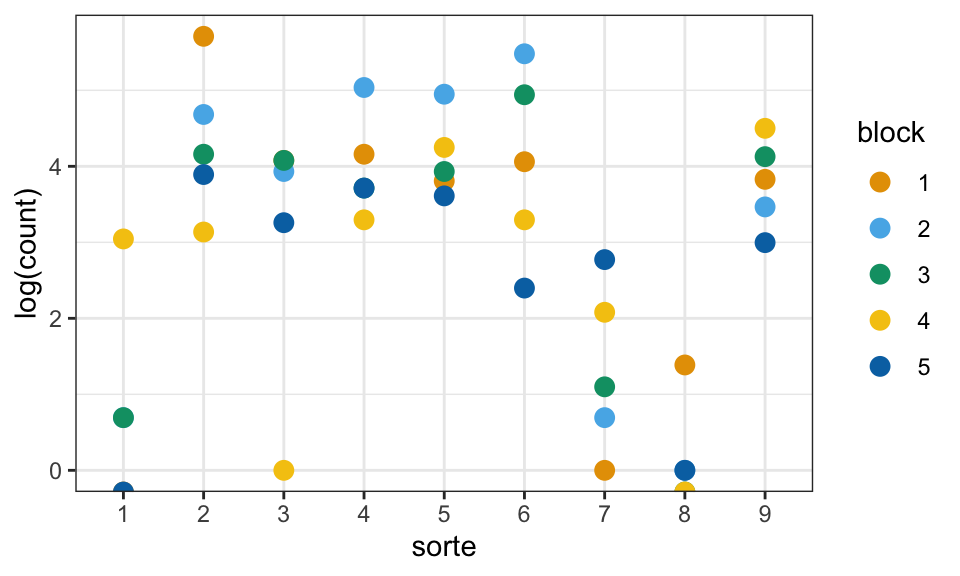
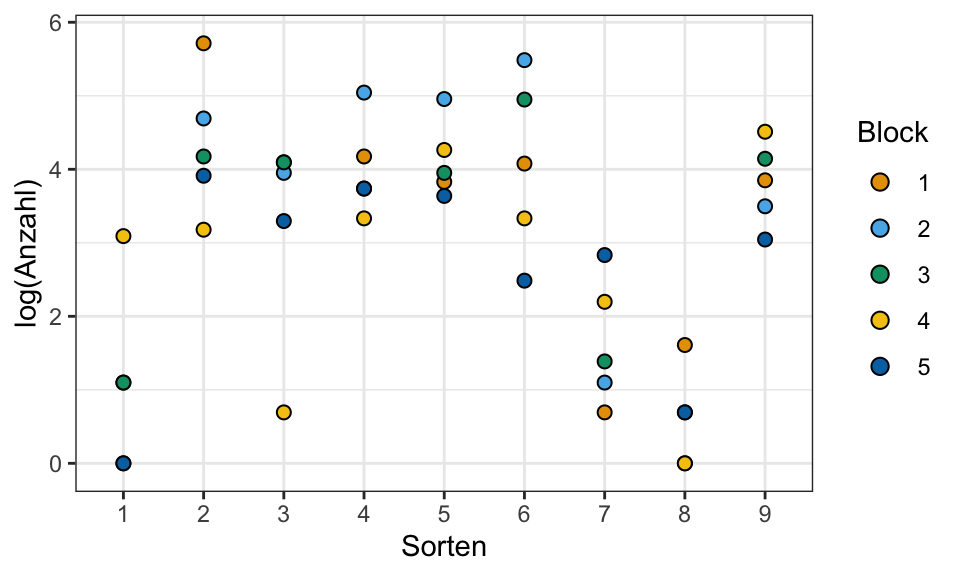
added text

diff --git a/docs/stat-tests-effect.html b/docs/stat-tests-effect.html
@@ -675,7 +675,7 @@ div.csl-indent {
   </div>
   
 
-</header><p><em>Version vom June 16, 2023 um 09:56:54</em></p>
+</header><p><em>Version vom June 16, 2023 um 11:32:09</em></p>
 <blockquote class="blockquote">
 <p><em>“Alles, was wir hören, ist eine Meinung, keine Tatsache. Alles, was wir sehen, ist eine Perspektive, nicht die Wahrheit.” — Marcus Aurelius, Meditationen</em></p>
 </blockquote>
@@ -717,8 +717,9 @@ Effektschätzer
 <span class="header-section-number">21.1</span> Genutzte R Pakete</h2>
 <p>Wir wollen folgende R Pakete in diesem Kapitel nutzen.</p>
 <div class="cell">
-<div class="sourceCode" id="cb1"><pre class="downlit sourceCode r code-with-copy"><code class="sourceCode R"><span><span class="fu">pacman</span><span class="fu">::</span><span class="fu"><a href="https://rdrr.io/pkg/pacman/man/p_load.html">p_load</a></span><span class="op">(</span><span class="va">tidyverse</span>, <span class="va">magrittr</span>, <span class="va">conflicted</span>, <span class="va">see</span>, </span>
-<span>               <span class="va">effectsize</span>, <span class="va">parameters</span>, <span class="va">lsmeans</span>, <span class="va">broom</span><span class="op">)</span></span>
+<div class="sourceCode" id="cb1"><pre class="downlit sourceCode r code-with-copy"><code class="sourceCode R"><span><span class="fu">pacman</span><span class="fu">::</span><span class="fu"><a href="https://rdrr.io/pkg/pacman/man/p_load.html">p_load</a></span><span class="op">(</span><span class="va">tidyverse</span>, <span class="va">magrittr</span>, <span class="va">see</span>, <span class="va">scales</span>,</span>
+<span>               <span class="va">effectsize</span>, <span class="va">parameters</span>, <span class="va">broom</span>,</span>
+<span>               <span class="va">emmeans</span>, <span class="va">conflicted</span><span class="op">)</span></span>
 <span><span class="fu">conflict_prefer</span><span class="op">(</span><span class="st">"select"</span>, <span class="st">"dplyr"</span><span class="op">)</span></span>
 <span><span class="fu">conflict_prefer</span><span class="op">(</span><span class="st">"filter"</span>, <span class="st">"dplyr"</span><span class="op">)</span></span>
 <span><span class="fu">conflict_prefer</span><span class="op">(</span><span class="st">"mutate"</span>, <span class="st">"dplyr"</span><span class="op">)</span></span>
@@ -1081,76 +1082,68 @@ WG = \left(\cfrac{X_n - Y_n}{X_n}\right)
 <span>         variante <span class="op">=</span> <span class="fu">as_factor</span><span class="op">(</span><span class="va">variante</span><span class="op">)</span><span class="op">)</span></span></code><button title="In die Zwischenablage kopieren" class="code-copy-button"><i class="bi"></i></button></pre></div>
 </div>
 <div class="page-columns page-full">
-<div class="sourceCode" id="cb22"><pre class="downlit sourceCode r code-with-copy"><code class="sourceCode R"><span><span class="fu">ggplot</span><span class="op">(</span><span class="va">mite_tbl</span>, <span class="fu">aes</span><span class="op">(</span><span class="va">sorte</span>, <span class="va">count</span>, color <span class="op">=</span> <span class="va">block</span><span class="op">)</span><span class="op">)</span> <span class="op">+</span></span>
+<div class="sourceCode" id="cb22"><pre class="downlit sourceCode r code-with-copy"><code class="sourceCode R"><span><span class="fu">ggplot</span><span class="op">(</span><span class="va">mite_tbl</span>, <span class="fu">aes</span><span class="op">(</span><span class="va">sorte</span>, <span class="va">count</span>, fill <span class="op">=</span> <span class="va">block</span><span class="op">)</span><span class="op">)</span> <span class="op">+</span></span>
 <span>  <span class="fu">theme_bw</span><span class="op">(</span><span class="op">)</span> <span class="op">+</span></span>
-<span>  <span class="fu">geom_point</span><span class="op">(</span>size <span class="op">=</span> <span class="fl">3</span><span class="op">)</span> <span class="op">+</span></span>
-<span>  <span class="fu">scale_color_okabeito</span><span class="op">(</span><span class="op">)</span></span>
+<span>  <span class="fu">geom_dotplot</span><span class="op">(</span>binaxis <span class="op">=</span> <span class="st">"y"</span>, stackdir <span class="op">=</span> <span class="st">"center"</span><span class="op">)</span> <span class="op">+</span></span>
+<span>  <span class="fu">labs</span><span class="op">(</span>x <span class="op">=</span> <span class="st">"Sorten"</span>, y <span class="op">=</span> <span class="st">"Anzahl"</span>, fill <span class="op">=</span> <span class="st">"Block"</span><span class="op">)</span> <span class="op">+</span></span>
+<span>  <span class="fu">scale_fill_okabeito</span><span class="op">(</span><span class="op">)</span></span>
 <span>  </span>
-<span><span class="fu">ggplot</span><span class="op">(</span><span class="va">mite_tbl</span>, <span class="fu">aes</span><span class="op">(</span><span class="va">sorte</span>, <span class="fu"><a href="https://rdrr.io/r/base/Log.html">log</a></span><span class="op">(</span><span class="va">count</span><span class="op">)</span>, color <span class="op">=</span> <span class="va">block</span><span class="op">)</span><span class="op">)</span> <span class="op">+</span></span>
+<span><span class="fu">ggplot</span><span class="op">(</span><span class="va">mite_tbl</span>, <span class="fu">aes</span><span class="op">(</span><span class="va">sorte</span>, <span class="fu"><a href="https://rdrr.io/r/base/Log.html">log1p</a></span><span class="op">(</span><span class="va">count</span><span class="op">)</span>, fill <span class="op">=</span> <span class="va">block</span><span class="op">)</span><span class="op">)</span> <span class="op">+</span></span>
 <span>  <span class="fu">theme_bw</span><span class="op">(</span><span class="op">)</span> <span class="op">+</span></span>
-<span>  <span class="fu">geom_point</span><span class="op">(</span>size <span class="op">=</span> <span class="fl">3</span><span class="op">)</span> <span class="op">+</span></span>
-<span>  <span class="fu">scale_color_okabeito</span><span class="op">(</span><span class="op">)</span> </span></code><button title="In die Zwischenablage kopieren" class="code-copy-button"><i class="bi"></i></button></pre></div>
+<span>  <span class="fu">geom_dotplot</span><span class="op">(</span>binaxis <span class="op">=</span> <span class="st">"y"</span>, stackdir <span class="op">=</span> <span class="st">"center"</span><span class="op">)</span> <span class="op">+</span></span>
+<span>  <span class="fu">labs</span><span class="op">(</span>x <span class="op">=</span> <span class="st">"Sorten"</span>, y <span class="op">=</span> <span class="st">"log(Anzahl)"</span>, fill <span class="op">=</span> <span class="st">"Block"</span><span class="op">)</span> <span class="op">+</span></span>
+<span>  <span class="fu">scale_fill_okabeito</span><span class="op">(</span><span class="op">)</span></span></code><button title="In die Zwischenablage kopieren" class="code-copy-button"><i class="bi"></i></button></pre></div>
 <div id="fig-effect-1" class="cell column-page quarto-layout-panel">
 <figure class="figure"><div class="quarto-layout-row quarto-layout-valign-top">
-<div class="cell-output-display quarto-layout-cell quarto-layout-cell-subref" style="flex-basis: 100.0%;justify-content: center;">
+<div class="cell-output-display quarto-layout-cell quarto-layout-cell-subref" style="flex-basis: 50.0%;justify-content: center;">
 <div id="fig-effect-1-1" class="quarto-figure quarto-figure-center anchored">
 <figure class="figure"><p><img src="stat-tests-effect_files/figure-html/fig-effect-1-1.png" class="img-fluid figure-img" data-ref-parent="fig-effect-1" width="480"></p>
-<figcaption class="figure-caption">(a) Verteilung der beobachteten Werte.</figcaption></figure>
+<figcaption class="figure-caption">(a) Verteilung der Werte auf der originalen Skala.</figcaption></figure>
 </div>
 </div>
-</div>
-<div class="quarto-layout-row quarto-layout-valign-top">
-<div class="cell-output-display quarto-layout-cell quarto-layout-cell-subref" style="flex-basis: 100.0%;justify-content: center;">
+<div class="cell-output-display quarto-layout-cell quarto-layout-cell-subref" style="flex-basis: 50.0%;justify-content: center;">
 <div id="fig-effect-1-2" class="quarto-figure quarto-figure-center anchored">
 <figure class="figure"><p><img src="stat-tests-effect_files/figure-html/fig-effect-1-2.png" class="img-fluid figure-img" data-ref-parent="fig-effect-1" width="480"></p>
-<figcaption class="figure-caption">(b) Verteilung der theoretischen Werte.</figcaption></figure>
+<figcaption class="figure-caption">(b) Verteilung der Werte auf der logarithmischen Skala. Beobachtungen mit einer 0 Zählung wurden auf 1 gesetzt.</figcaption></figure>
 </div>
 </div>
 </div>
-<p></p><figcaption class="figure-caption">Abbildung&nbsp;21.1— dst.</figcaption><p></p>
+<p></p><figcaption class="figure-caption">Abbildung&nbsp;21.1— Dotplot der Anzahl an Raubmilden je Sorte und Block.</figcaption><p></p>
 </figure>
 </div>
 </div>
 <div class="cell">
-<div class="sourceCode" id="cb23"><pre class="downlit sourceCode r code-with-copy"><code class="sourceCode R"><span><span class="va">fit</span> <span class="op">&lt;-</span> <span class="fu"><a href="https://rdrr.io/r/stats/glm.html">glm</a></span><span class="op">(</span><span class="va">count</span> <span class="op">~</span> <span class="va">variante</span> <span class="op">+</span> <span class="va">block</span>, data <span class="op">=</span> <span class="va">trespe_tbl</span>, family <span class="op">=</span> <span class="va">poisson</span><span class="op">)</span> </span>
-<span></span>
-<span><span class="va">fit</span> <span class="op">%&gt;%</span> </span>
-<span>  <span class="fu">model_parameters</span><span class="op">(</span>exponentiate <span class="op">=</span> <span class="cn">FALSE</span><span class="op">)</span></span></code><button title="In die Zwischenablage kopieren" class="code-copy-button"><i class="bi"></i></button></pre></div>
-<div class="cell-output cell-output-stdout">
-<pre><code>Parameter    | Log-Mean |   SE |         95% CI |     z |      p
-----------------------------------------------------------------
-(Intercept)  |     2.93 | 0.19 | [ 2.54,  3.29] | 15.39 | &lt; .001
-variante [2] |    -1.46 | 0.33 | [-2.16, -0.84] | -4.39 | &lt; .001
-variante [3] |    -1.32 | 0.31 | [-1.98, -0.74] | -4.20 | &lt; .001
-variante [4] |    -0.54 | 0.24 | [-1.02, -0.08] | -2.27 | 0.023 
-block [2]    |    -0.23 | 0.24 | [-0.70,  0.24] | -0.95 | 0.341 
-block [3]    |    -1.18 | 0.33 | [-1.87, -0.57] | -3.59 | &lt; .001
-block [4]    |    -0.80 | 0.29 | [-1.39, -0.25] | -2.79 | 0.005 </code></pre>
+<div class="sourceCode" id="cb23"><pre class="downlit sourceCode r code-with-copy"><code class="sourceCode R"><span><span class="va">fit</span> <span class="op">&lt;-</span> <span class="fu"><a href="https://rdrr.io/r/stats/glm.html">glm</a></span><span class="op">(</span><span class="va">count</span> <span class="op">~</span> <span class="va">variante</span> <span class="op">+</span> <span class="va">block</span>, data <span class="op">=</span> <span class="va">trespe_tbl</span>, family <span class="op">=</span> <span class="va">poisson</span><span class="op">)</span></span></code><button title="In die Zwischenablage kopieren" class="code-copy-button"><i class="bi"></i></button></pre></div>
 </div>
-<div class="sourceCode" id="cb25"><pre class="downlit sourceCode r code-with-copy"><code class="sourceCode R"><span><span class="va">fit</span> <span class="op">%&gt;%</span> <span class="fu">lsmeans</span><span class="op">(</span><span class="op">~</span><span class="va">variante</span>, type <span class="op">=</span> <span class="st">"response"</span><span class="op">)</span></span></code><button title="In die Zwischenablage kopieren" class="code-copy-button"><i class="bi"></i></button></pre></div>
+<div class="cell">
+<div class="sourceCode" id="cb24"><pre class="downlit sourceCode r code-with-copy"><code class="sourceCode R"><span><span class="va">fit</span> <span class="op">%&gt;%</span> </span>
+<span>  <span class="fu">model_parameters</span><span class="op">(</span>exponentiate <span class="op">=</span> <span class="cn">TRUE</span><span class="op">)</span></span></code><button title="In die Zwischenablage kopieren" class="code-copy-button"><i class="bi"></i></button></pre></div>
 <div class="cell-output cell-output-stdout">
-<pre><code> variante lsmean    SE  df asymp.LCL asymp.UCL
- crtl      10.82 1.648 Inf      8.03     14.58
- 2          2.52 0.764 Inf      1.39      4.57
- 3          2.89 0.819 Inf      1.65      5.03
- 4          6.31 1.232 Inf      4.31      9.25
-
-Results are averaged over the levels of: block 
-Confidence level used: 0.95 
-Intervals are back-transformed from the log scale </code></pre>
+<pre><code>Parameter    |   IRR |   SE |         95% CI |     z |      p
+-------------------------------------------------------------
+(Intercept)  | 18.82 | 3.59 | [12.72, 26.89] | 15.39 | &lt; .001
+variante [2] |  0.23 | 0.08 | [ 0.12,  0.43] | -4.39 | &lt; .001
+variante [3] |  0.27 | 0.08 | [ 0.14,  0.48] | -4.20 | &lt; .001
+variante [4] |  0.58 | 0.14 | [ 0.36,  0.92] | -2.27 | 0.023 
+block [2]    |  0.80 | 0.19 | [ 0.49,  1.27] | -0.95 | 0.341 
+block [3]    |  0.31 | 0.10 | [ 0.15,  0.57] | -3.59 | &lt; .001
+block [4]    |  0.45 | 0.13 | [ 0.25,  0.78] | -2.79 | 0.005 </code></pre>
 </div>
-<div class="sourceCode" id="cb27"><pre class="downlit sourceCode r code-with-copy"><code class="sourceCode R"><span><span class="va">fit</span> <span class="op">%&gt;%</span> </span>
-<span>  <span class="fu">lsmeans</span><span class="op">(</span><span class="op">~</span><span class="va">variante</span>, type <span class="op">=</span> <span class="st">"response"</span><span class="op">)</span> <span class="op">%&gt;%</span> </span>
+</div>
+<div class="cell">
+<div class="sourceCode" id="cb26"><pre class="downlit sourceCode r code-with-copy"><code class="sourceCode R"><span><span class="va">fit</span> <span class="op">%&gt;%</span> </span>
+<span>  <span class="fu">emmeans</span><span class="op">(</span><span class="op">~</span><span class="va">variante</span>, type <span class="op">=</span> <span class="st">"response"</span><span class="op">)</span> <span class="op">%&gt;%</span> </span>
 <span>  <span class="fu">tidy</span><span class="op">(</span><span class="op">)</span> <span class="op">%&gt;%</span> </span>
-<span>  <span class="fu">mutate</span><span class="op">(</span>WG_Abbott <span class="op">=</span> <span class="op">(</span><span class="va">estimate</span><span class="op">[</span><span class="fl">1</span><span class="op">]</span> <span class="op">-</span> <span class="va">estimate</span><span class="op">)</span><span class="op">/</span><span class="va">estimate</span><span class="op">[</span><span class="fl">1</span><span class="op">]</span><span class="op">)</span></span></code><button title="In die Zwischenablage kopieren" class="code-copy-button"><i class="bi"></i></button></pre></div>
+<span>  <span class="fu">mutate</span><span class="op">(</span>WG_Abbott <span class="op">=</span> <span class="fu">percent</span><span class="op">(</span><span class="op">(</span><span class="va">rate</span><span class="op">[</span><span class="fl">1</span><span class="op">]</span> <span class="op">-</span> <span class="va">rate</span><span class="op">)</span><span class="op">/</span><span class="va">rate</span><span class="op">[</span><span class="fl">1</span><span class="op">]</span><span class="op">)</span><span class="op">)</span> <span class="op">%&gt;%</span> </span>
+<span>  <span class="fu">select</span><span class="op">(</span><span class="va">variante</span>, <span class="va">rate</span>, <span class="va">WG_Abbott</span><span class="op">)</span></span></code><button title="In die Zwischenablage kopieren" class="code-copy-button"><i class="bi"></i></button></pre></div>
 <div class="cell-output cell-output-stdout">
-<pre><code># A tibble: 4 × 8
-  variante estimate std.error    df  null statistic  p.value WG_Abbott
-  &lt;chr&gt;       &lt;dbl&gt;     &lt;dbl&gt; &lt;dbl&gt; &lt;dbl&gt;     &lt;dbl&gt;    &lt;dbl&gt;     &lt;dbl&gt;
-1 crtl        10.8      1.65    Inf     1     15.6  3.97e-55     0    
-2 2            2.52     0.764   Inf     1      3.06 2.22e- 3     0.767
-3 3            2.89     0.819   Inf     1      3.74 1.87e- 4     0.733
-4 4            6.31     1.23    Inf     1      9.44 3.62e-21     0.417</code></pre>
+<pre><code># A tibble: 4 × 3
+  variante  rate WG_Abbott
+  &lt;chr&gt;    &lt;dbl&gt; &lt;chr&gt;    
+1 crtl     10.8  0.0%     
+2 2         2.52 76.7%    
+3 3         2.89 73.3%    
+4 4         6.31 41.7%    </code></pre>
 </div>
 </div>
 </section><section id="referenzen" class="level2 unnumbered"><h2 class="unnumbered anchored" data-anchor-id="referenzen">Referenzen</h2>
